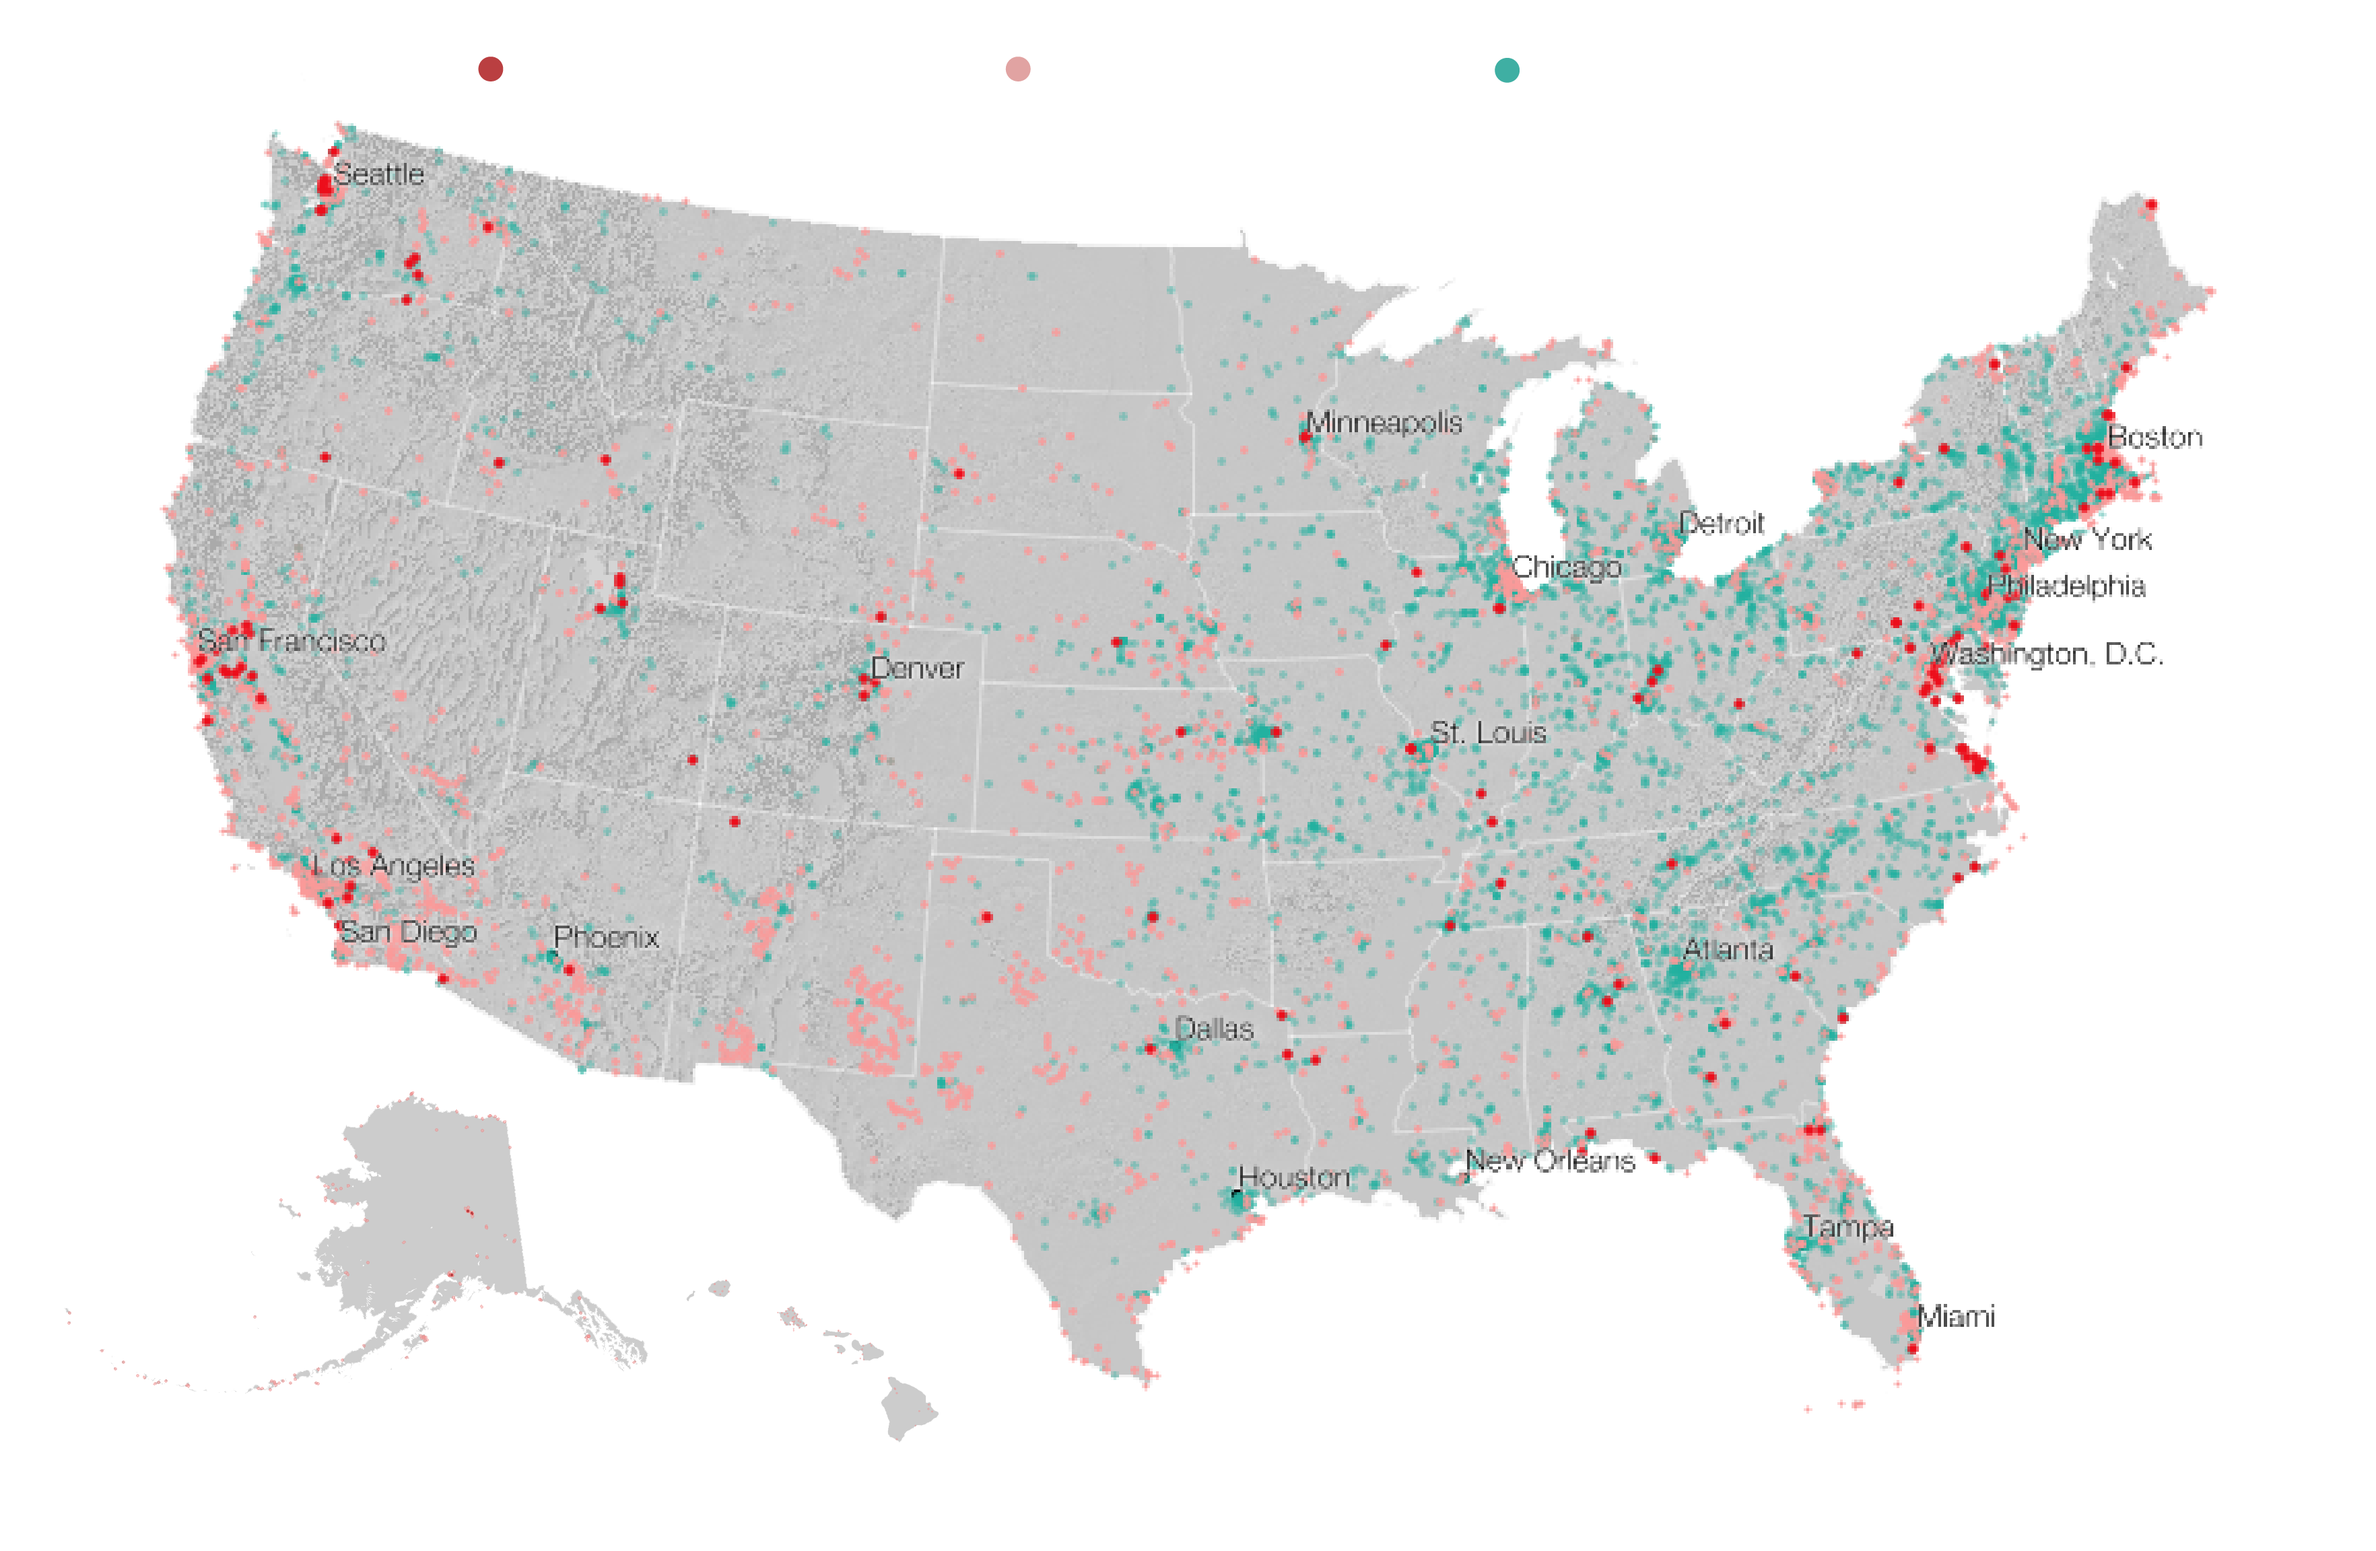
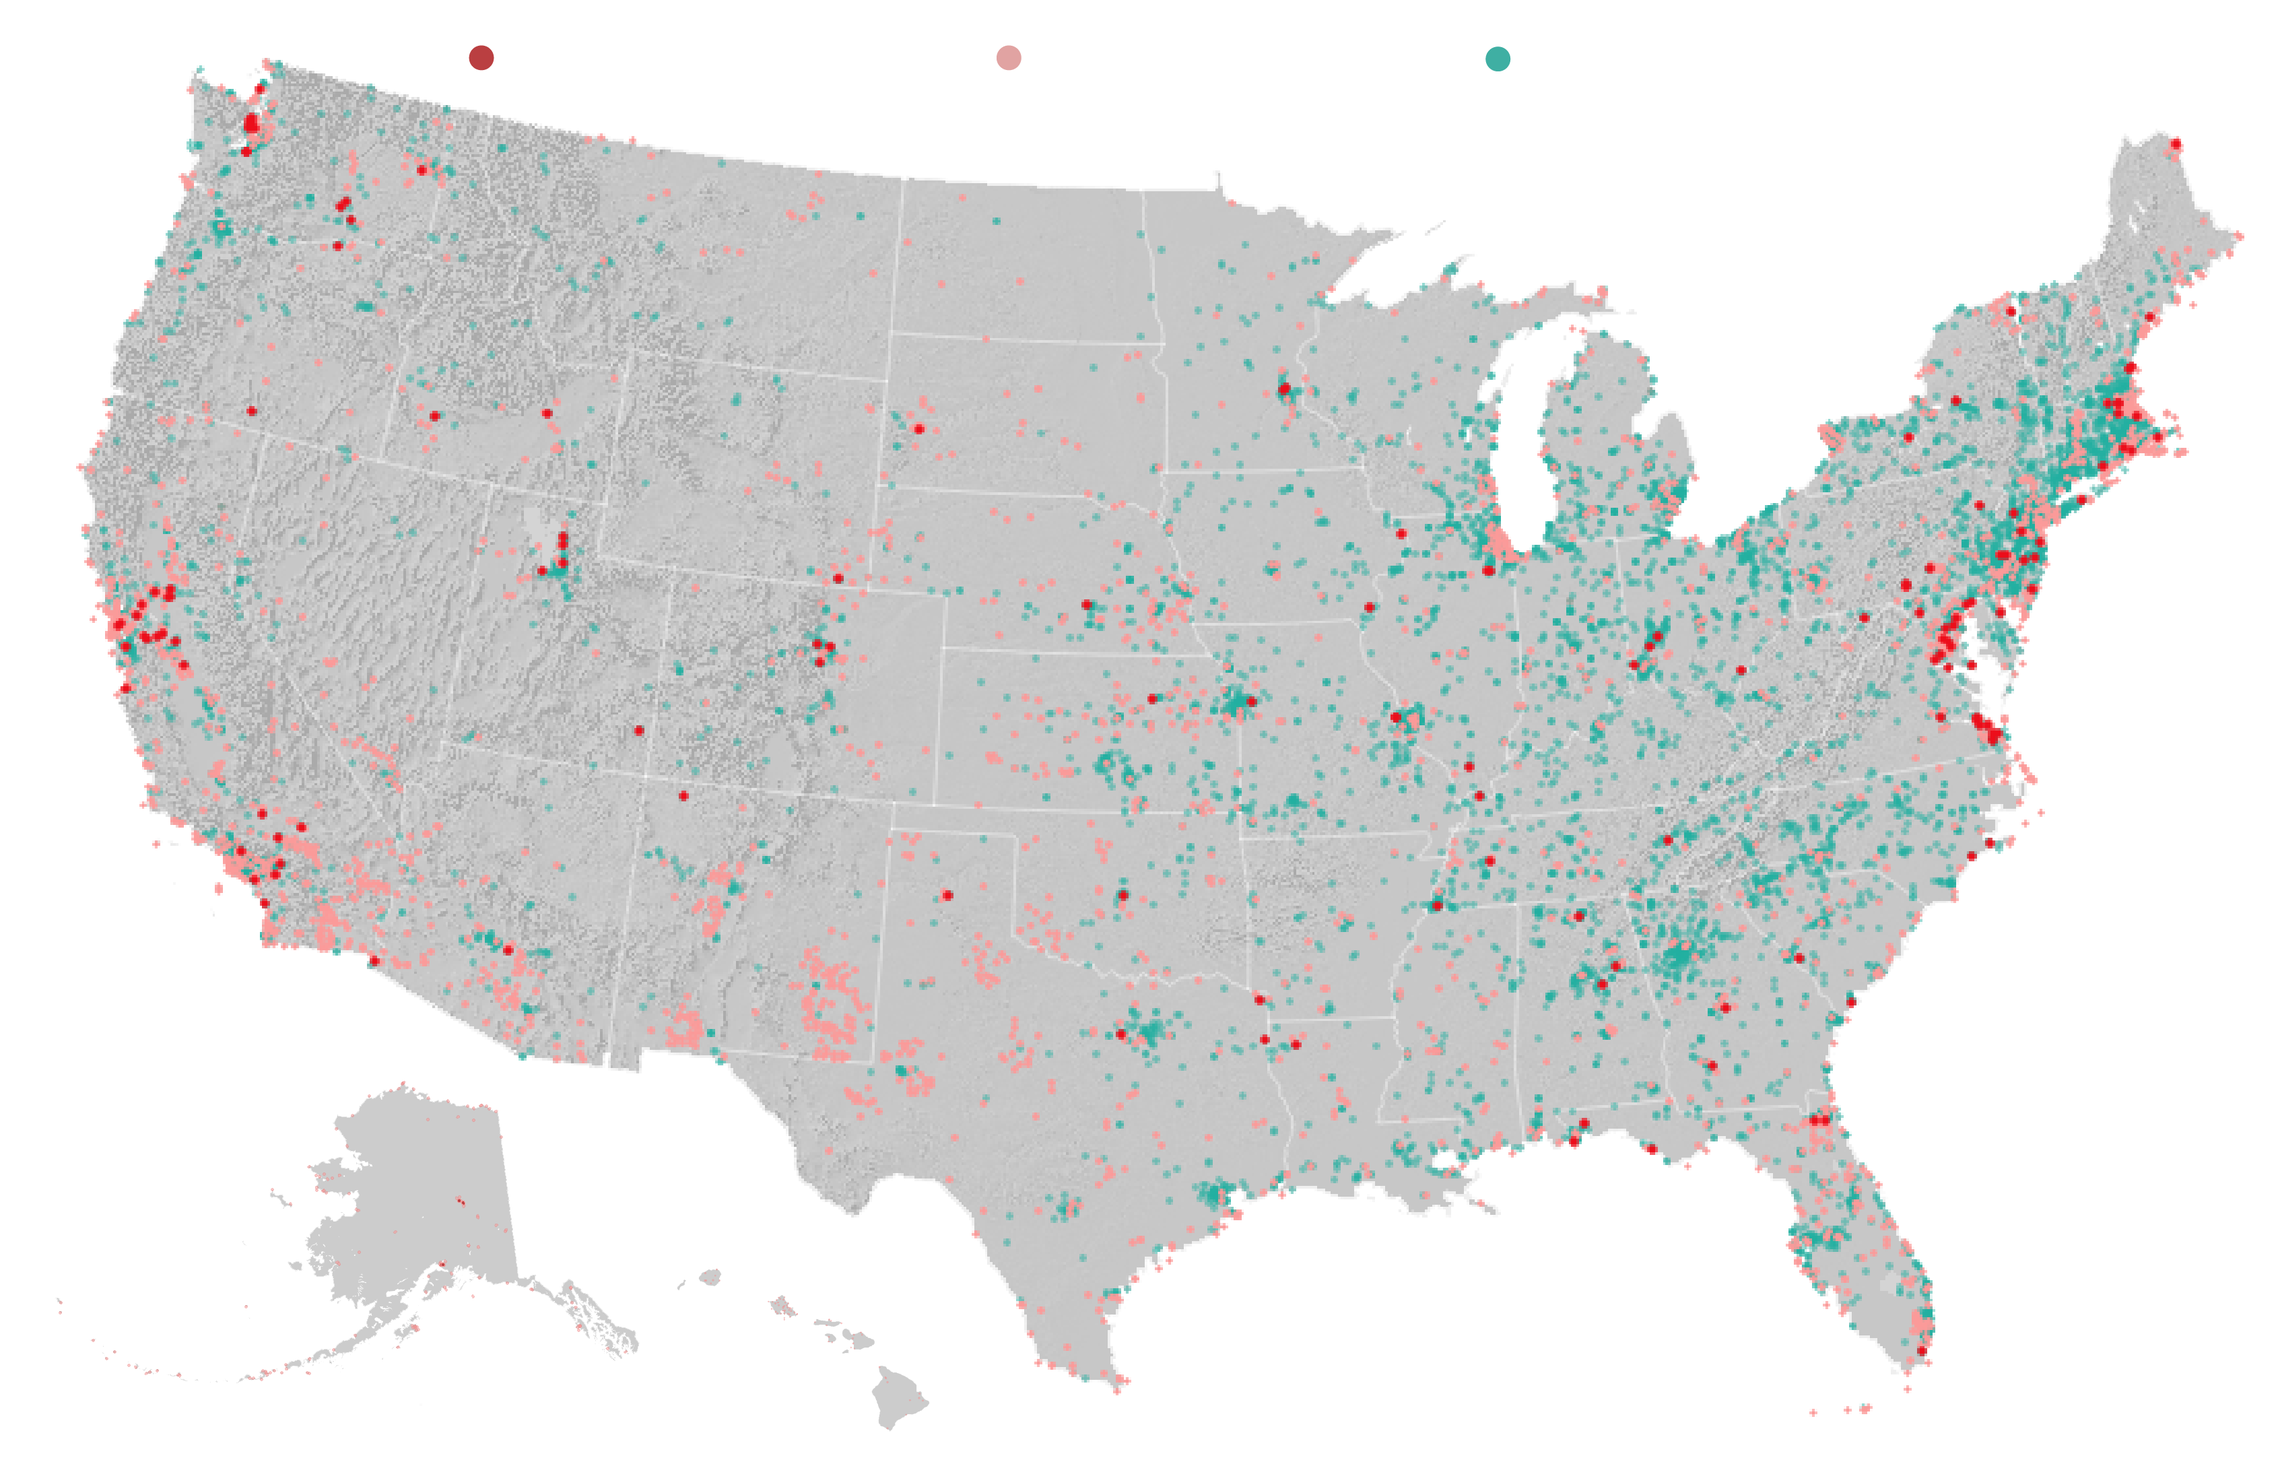
change color ships graphic, new training map and new cleanups map

diff --git a/ships.html b/ships.html
@@ -33,11 +33,11 @@
     <p>In the post-war era, shipyards in Portland and Tacoma dismantled hundreds of World War II vessels.</p>
 
     <div class="shipyards-map-container">
-      <img class="shipyards-map" src="assets/shipbreaking-yards.png"/>
+      <img class="shipyards-map" style="margin-top: 3em;" src="assets/shipbreaking-yards.png"/>
     </div>
 
     <div class="ships-chart-container">
-      <div id="shipbreaking-chart" style="margin-top: 20px; height: 420px;"></div>
+      <div id="shipbreaking-chart" style="margin-top: 20px; height: 480px;"></div>
     </div>
     <p class="credit">Sources: Shipbuildinghistory.com, Zidell Marine Corporation</p>
 </div>
@@ -88,7 +88,7 @@
                 enabled: false
             },
             series: [{
-                color: 'rgba(51,72,93,0.75)',
+                color: 'rgba(236,14,27,0.75)',
                 borderColor: 'none',
                 name: 'Ships built',
                 data: [346, 291, 175, 148, 141, 139, 108, 45, 34, 21, 15, 10, 10, 8, 7, 3]
@@ -111,7 +111,7 @@
                 text: ''
             },
             xAxis: {
-                categories: ['Liberty ship (cargo)', 'Escort carrier', 'Landing craft', 'Other cargo/freighter', 'Submarine', 'Cruiser', 'Patrol craft', 'Barge/Lighter', 'Aircraft carrier', 'Victory ship (cargo)', 'Other escort carrier', 'Net layer', 'Repair ship', 'Tanker', 'Minesweeper', 'Transport', 'Frigate', 'Sub chaser', 'Coast Guard Cutter', 'Hospital ship', 'Tractor/Tug', 'Undocumented vessel 242,842', 'Auxiliary vessel', 'Forebody only', 'Barracks ship',],
+                categories: ["Liberty ship (cargo)", "Other cargo/freighter", "Destroyer", "Landing craft", "Submarine", "Cruiser", "Victory ship (cargo)", "Aircraft carrier", "Patrol craft", "Attack transport", "Tanker", "Barge/Lighter", "Repair ship", "Net layer", "Escort carrier", "Attack Cargo Ship", "Transport", "Minesweeper", "Frigate", "Seaplane Tender", "Tractor/Tug", "Sub chaser", "Heavy Cruiser", "Hospital ship", "Coast Guard Cutter", "Barracks ship", "Command ship", "Surveying ship"],
                 title: {
                     text: null
                 }
@@ -143,11 +143,11 @@
                 enabled: false
             },
             series: [{
-                color: 'rgba(51,72,93,0.75)',
+                color: 'rgba(236,14,27,0.75)',
                 borderColor: 'none',
                 opacity: 0.25,
                 name: 'Ships broken',
-                data: [89, 31, 23, 20, 10, 10, 8, 7, 7, 6, 6, 6, 4, 4, 4, 4, 3, 2, 1, 1, 1, 1, 1, 1, 1]
+                data: [157, 37, 33, 24, 10, 10, 10, 8, 8, 8, 7, 7, 7, 6, 6, 5, 4, 4, 3, 3, 2, 2, 2, 1, 1, 1, 1, 1]
             }]
         });
     });
